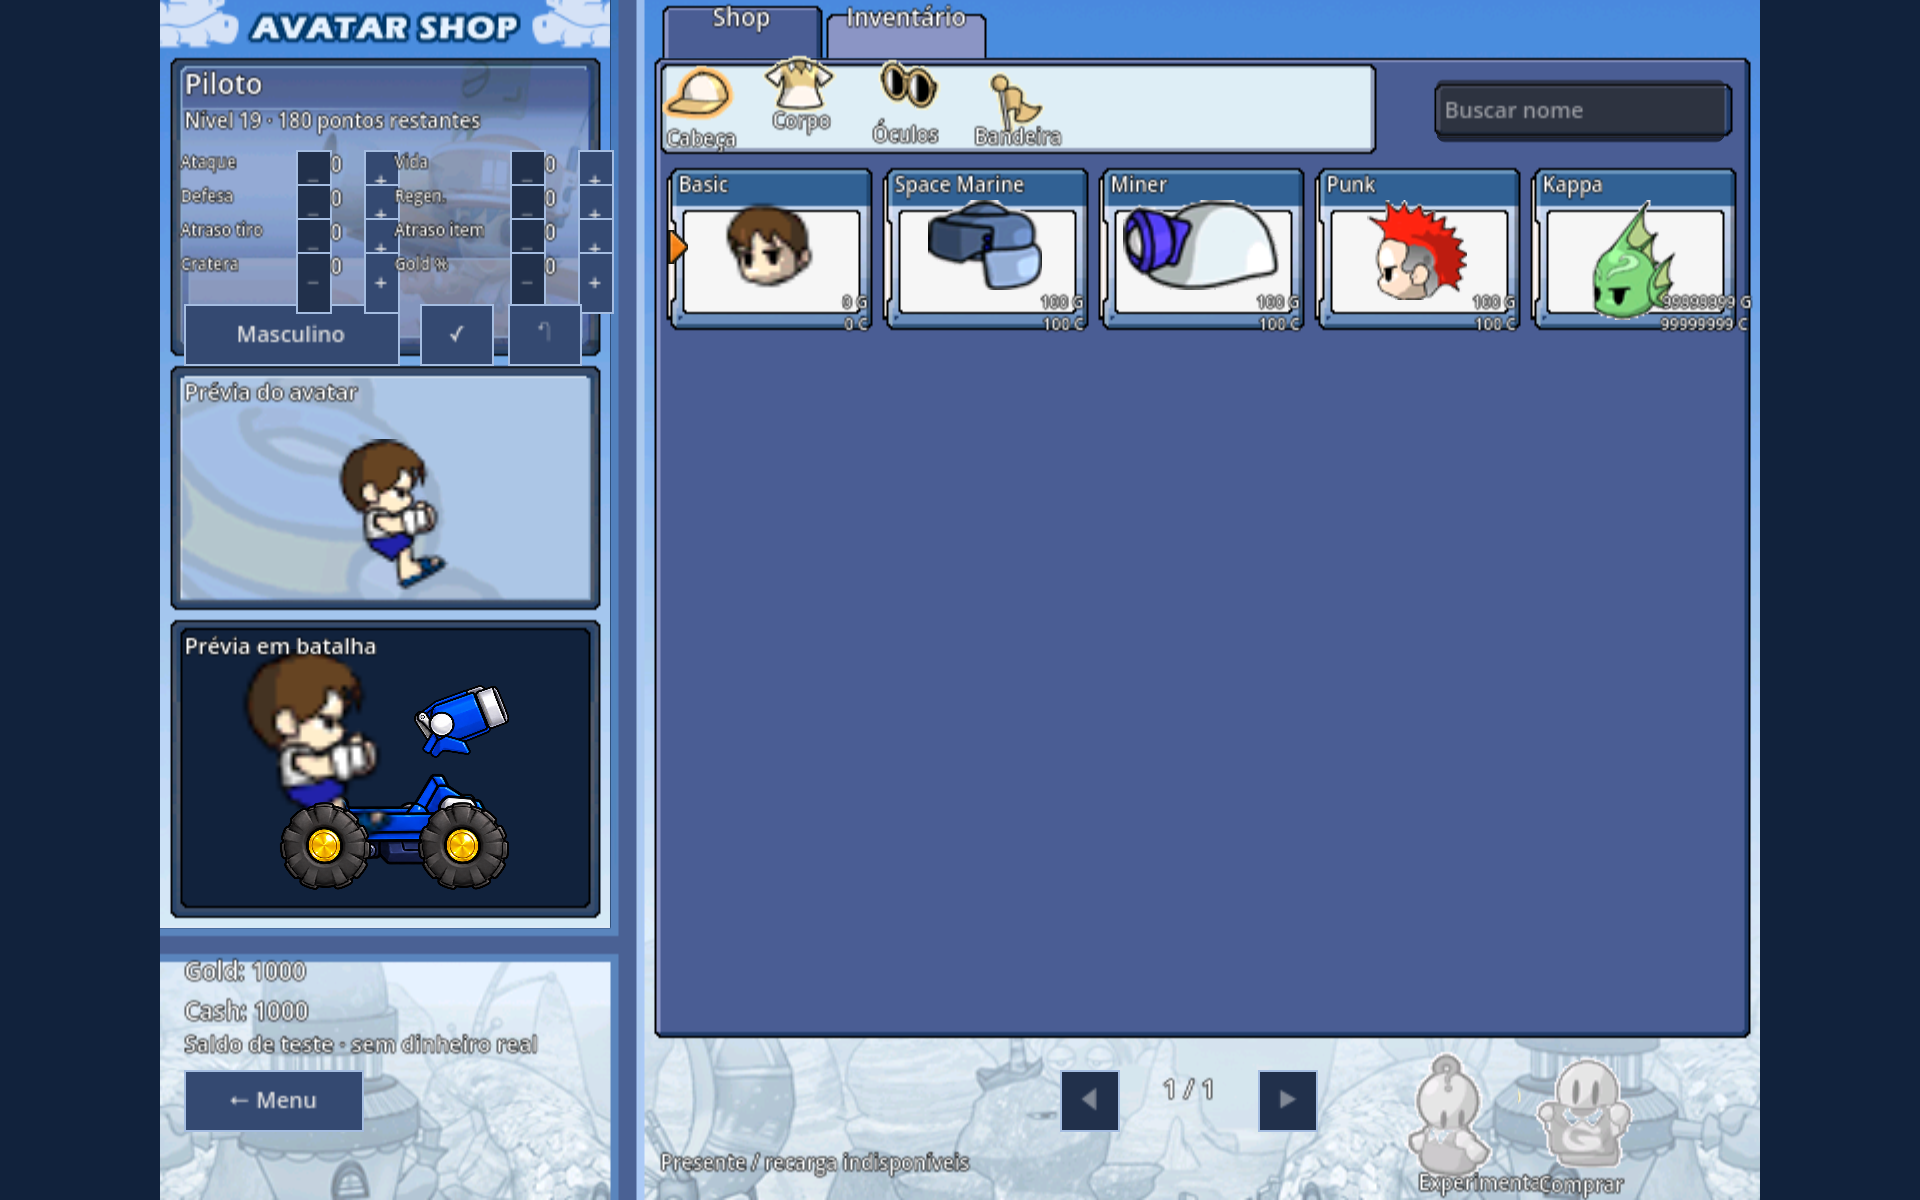
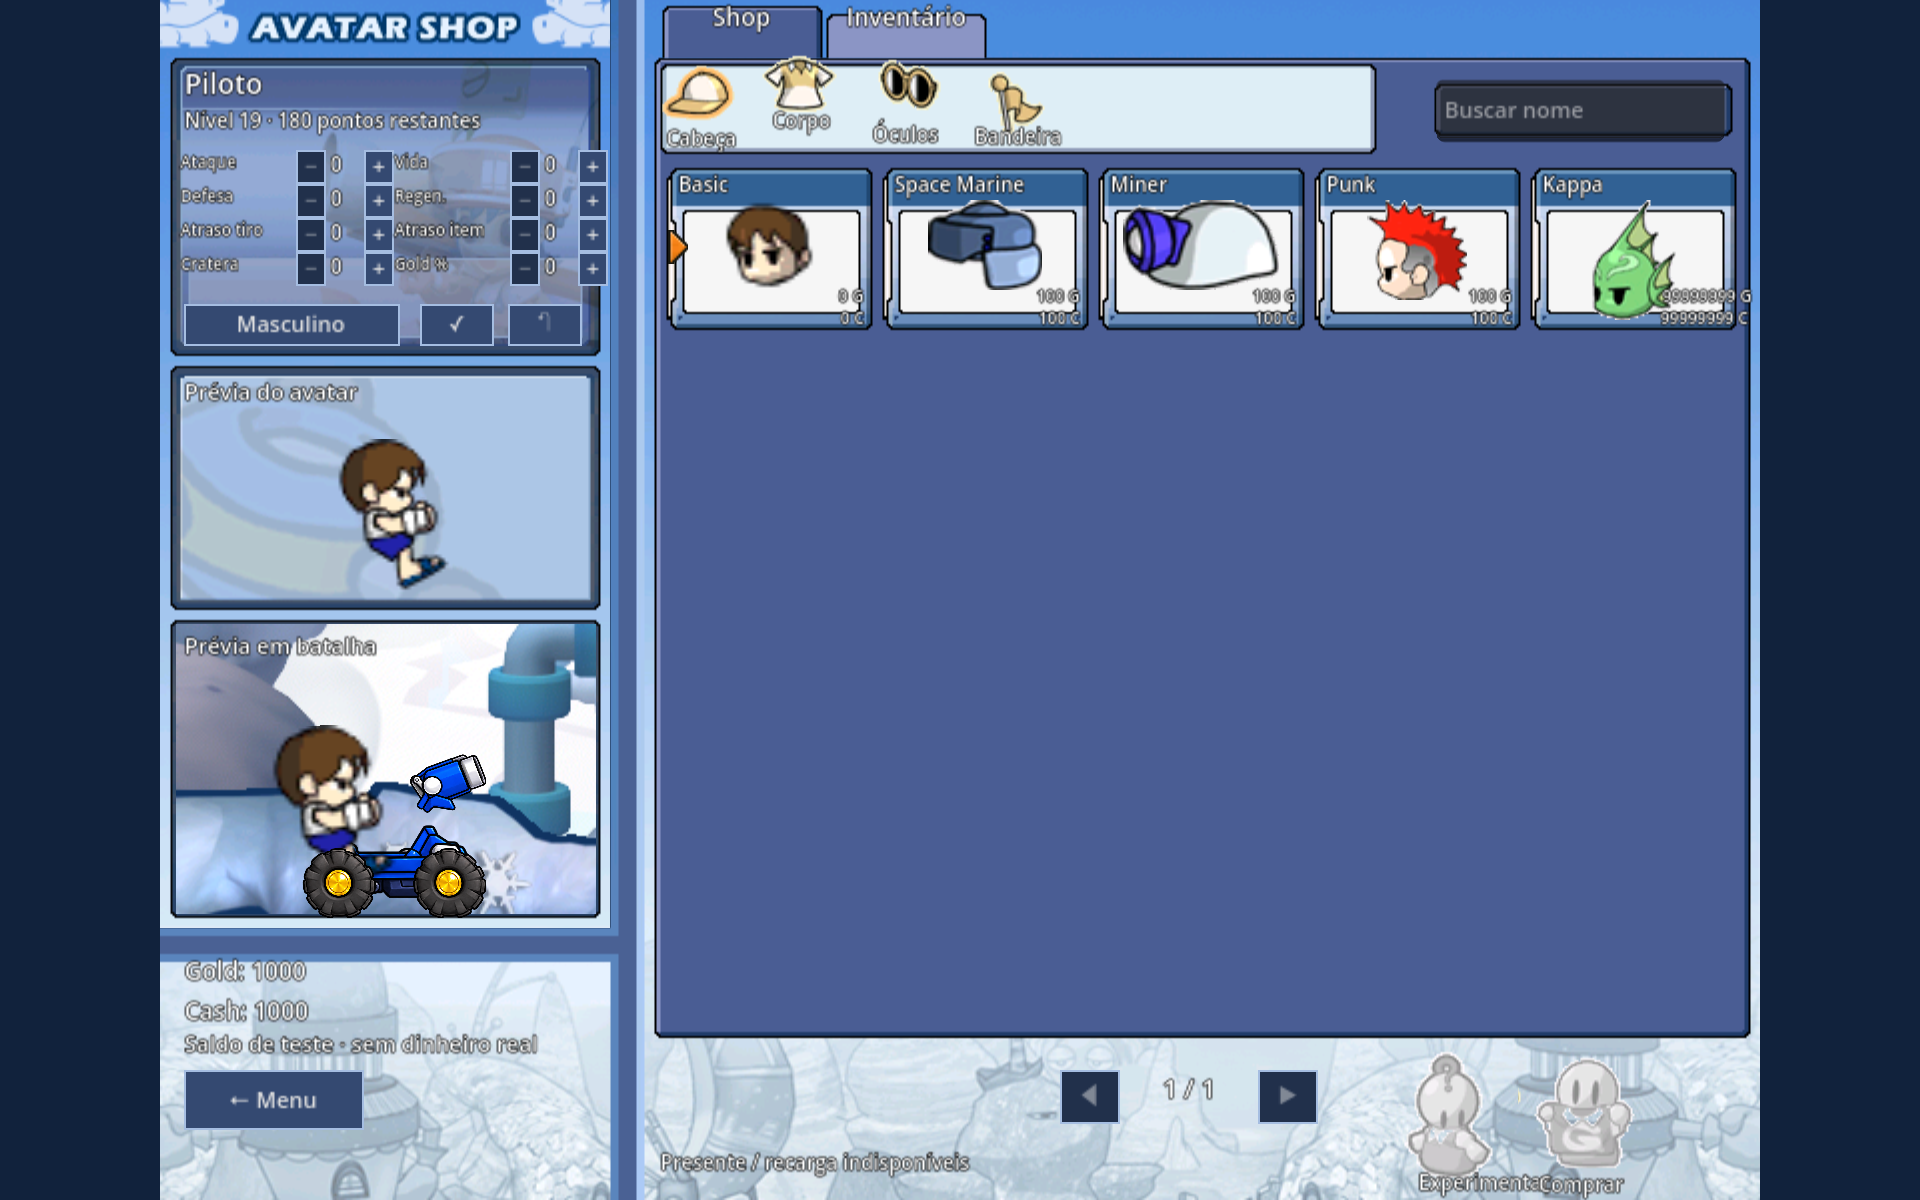
fix: validate Shop corruption Gold geometry and exported preview with final handoff

diff --git a/docs/sdd/HANDOFF.md b/docs/sdd/HANDOFF.md
@@ -1,17 +1,49 @@
-# Hand-off — Gunbound Recomp 0.12.0
+# Hand-off — Gunbound Recomp 0.14.0
 
-## Shop de avatar — preparação, sem código novo
+## Shop de avatar 0.14.0 — entregue no worktree
 
-2026-10-12: worktree da main em codex/avatar-shop. Proposta AVATAR_SHOP.md
-(REQ-38..41); usuário confirmou saldo inicial Gold/Cash de teste e distribuição
-de oito atributos com efeitos. Catálogo C# auditado: 15 registros nas quatro
-categorias, atlas/retratos disponíveis. Importação e baseline completo: 1114
-checks + 10 partidas, zero falhas (~41 s nas partidas). Sem Shop implementado,
-sem imagens geradas, sem export. Alterações não commitadas de itens da pasta
-principal não foram copiadas. ItemDelay depende dessa integração. Usuário
-aprovou a especificação, saldo 1.000 por moeda e orçamento pelo nível local em
-2026-10-12. AVATAR_SHOP_PLAN.md preparado; próximo passo: revisão do plano e
-escolha de execução. Nenhum código de produto alterado.
+Branch `codex/avatar-shop`, criada da `main`. Pedido/decisões aprovados em
+AVATAR_SHOP.md; execução AVATAR_SHOP_PLAN.md. REQ-38..41, ADR-059.
+
+- Catálogo original15 registros: cabeça/corpo/óculos/bandeira,15 retratos e
+ 13atlas.80arquivos originais/interface copiados com SHA, sem edição dos PNGs.
+- Shop/Inventário, busca, páginas25, gêneros/unissex, experimentação temporária,
+ compra Gold/Cash e popup modal. Primeiro perfil Shop tem1000por moeda;
+ transações com rollback, repetição sem débito e corrupção sem refill.
+- Perfil version2 conserva nickname/XP/wins/matches/awarded e guarda posse,
+ equipamento separado por gênero e oito atributos. Pontos pelo nível local:
+ min((nível−1)×10,180), até50cada; rascunho/confirmar/cancelar.
+- AvatarArt junta peças com pivôs/FPS/grade originais, substituindo o piloto no
+ assento do rig no menu/previews/arena; CPU básica. Caminho legado preservado
+ sem contexto. Atlas multi-row e altura feminina27vs metadata33 tratados.
+- Vida/dano/defesa/regen/atraso/Dig aplicados no Match/voo/previsão em cópias;
+ GoldRewards e Popularity seguem caminhos1×1 C#. Ângulo HUD=trajetória central
+ +180, sem dispersão do primeiro pellet; metadados Gold só de dano positivo.
+ Resultado4/1Gold e Popularity acumulada/branch2000 inalcançável são da fonte;
+ empate0é adaptação. XP local preservado; crédito final único com ID da partida.
+
+Validação final: check.sh completo **1282checks+10partidas, zero falhas**,40,5s
+nas partidas. Mais8 checks de atributos (fixture válida de180pontos, dano/cratera
+reais) passaram; check.sh --quick consolidou **1290checks, zero falhas**.
+Revisão independente encontrou3Important reproduzidos e corrigidos em RED→GREEN:
+shop inválido renovando saldo, ângulo Gold espelhado e pellets sem dano alterando
+bônus. Um quarto candidato sobre remap do .gd não se reproduziu neste Godot:
+PCK original já tinha preview1786pixels; gate redundante removido por robustez.
+
+Sete capturas GPU1920×1200 em docs/avatar-shop: loja, compra, inventário,
+atributos, Mage/Bigfoot e poses/sentidos/encosta. PCK do app exportado carregou
+catálogo15 e renderizou preview (1786pixels da figura, PASS), com perfil isolado.
+`capture_avatar_pck_smoke.gd` preserva reprodução: copiar o script para fora do
+projeto (ex.: /tmp) e executar Godot --main-pack <PCK> --script <script>.
+App/ZIP0.14.0 em builds do worktree, ZIP98MB; assinatura ad-hoc estrita válida.
+Nenhum teste usou o perfil real. Main e fonte C# não foram editadas nesta execução.
+
+Limites: **ItemDelay tem fórmula/teste, sem uso real até integrar código de itens**
+(a main tinha alterações não commitadas e não foram copiadas). Assets são
+originais; GPT Images opcional não gerado. Fonte/interface têm adaptações de
+viewport e controles nativos de texto. Sem teste manual do app por usuário;
+roteiro em docs/VALIDACAO.md. Próximo passo: usuário validar o app e decidir a
+integração da branch; worktree permanece disponível.
 
 ## Reorganização SOLID (mesma versão, sem export)
 

diff --git a/docs/sdd/TASKS.md b/docs/sdd/TASKS.md
@@ -1,16 +1,18 @@
 # Entregas e próximos trabalhos
 
-## Shop de avatar — preparação no worktree
+## Shop de avatar 0.14.0 (ADR-059, REQ-38..41)
 
-- [x] Worktree da main, branch codex/avatar-shop; alterações locais de itens preservadas na pasta principal.
-- [x] Auditoria do Shop/rider/catálogo/transações/atributos C#; 15 registros nas quatro categorias com assets presentes.
-- [x] Usuário confirmou saldo Gold/Cash de teste e os oito atributos com efeitos.
-- [x] Importação e baseline: 1114 checks + 10 partidas, zero falhas.
-- [x] Usuário aprovou AVATAR_SHOP.md, saldo 1.000 por moeda e orçamento pelo nível local.
-- [x] Preparar AVATAR_SHOP_PLAN.md com contratos, testes e etapas.
-- [ ] Revisar plano/escolher execução; implementar catálogo/perfil, loja, rider e atributos/recompensas.
-- [ ] Integrar ItemDelay ao trabalho de itens quando estiver disponível em branch.
-- [ ] Validar modelos/cena/partidas e capturas GPU; registrar limites e eventual export.
+- [x] Worktree de main, branch codex/avatar-shop, especificação/plano aprovados.
+- [x] Catálogo15 e assets originais; migração perfil2 e compras/equipamento atômicos.
+- [x] Shop/Inventário, filtros/busca/páginas, experimentar e confirmação Gold/Cash.
+- [x] Composição de quatro peças nos previews/menu/arena, dois mobiles e sentidos.
+- [x] Oito atributos e distribuição; modificadores Match/CPU/previsão e Gold.
+- [x] Revisão independente e correções reproduzidas em RED→GREEN.
+- [x] Check completo1282+10partidas; quick final1290, zero falhas;7capturasGPU.
+- [x] App/ZIP0.14.0 exportados no worktree; PCKpreview/catálogo e assinatura válidos.
+- [ ] Integrar ItemDelay ao uso real quando código de itens estiver na branch.
+- [ ] Usuário validar aplicativo; decidir integração da branch posteriormente.
+- [ ] GPT Images permanece opção permitida; não solicitado como etapa obrigatória.
 
 ## Reorganização SOLID (ADR-057)
 

diff --git a/docs/sdd/DESIGN.md b/docs/sdd/DESIGN.md
@@ -307,3 +307,28 @@ balão do relógio da CPU e contador de dano acumulado. Texturas HD 3× em
 Options e SkipTurn são `TextureButton` com as regiões de `Button.cs`. `game.gd`
 cuida do input original (carga 0→100 a +2/0,04 s, Tab, F8, ↑/↓ com repetição
 acelerada) e entrega um `hud_state()`; `match.gd` não mudou.
+
+## Shop de avatar 0.14 (REQ-38..41)
+
+Catalog e ShopModel separam dados, filtros e preview da tela original800×600
+(render uniforme4/3, margens laterais na viewport1280×800). Profile version2
+guarda moedas, posse por chave composta, conjuntos por gênero e atributos;
+compras/equipamento/confirmar/resultado usam snapshot, rename e rollback.
+A seção shop inválida não renova o saldo de teste.
+
+AvatarArt desenha os atlas originais com pivôs e10FPS, conservando grade real
+e profundidade Flag→Head→Goggles→Body. MobileRig troca o piloto no mesmo
+assento; sem contexto conserva o caminho anterior. BattleArt recebe contexto
+de equipamento da partida; não lê o perfil.
+
+PlayerAttributes guarda orçamento/modificadores puros; Match injeta atributos
+em atores antes do primeiro turno. Damage aplica ataque−defesa somente no
+projétil primário; Dig só aumenta erosão; delays/regen/HUD compartilham regras.
+FlightSnapshot copia atores/atributos/Gold em profundidade; simulação não toca
+perfil, moeda real ou estado vivo.
+
+GoldRewards reproduz os caminhos1×1 C#, com ângulo HUD=trajetória central+180.
+Só impactos com dano positivo entram nos metadados de Gold; boomer/backward
+consideram alvo inimigo. FinishGoldShot agrega salvo uma vez após acomodação;
+Profile.award recebe Gold junto do XP, usando awarded para impedir repetição.
+ItemDelay é contrato puro até integração da funcionalidade de itens.

diff --git a/docs/sdd/AVATAR_SHOP.md b/docs/sdd/AVATAR_SHOP.md
@@ -1,6 +1,6 @@
 # Shop de avatar — especificação aprovada
 
-Data: 2026-10-12. Estado: **especificação aprovada pelo usuário; código não implementado**.
+Data: 2026-10-12. Estado: **implementado e validado no worktree (0.14.0); ItemDelay depende dos itens**.
 Branch: `codex/avatar-shop`, worktree criado do commit de `main` disponível
 no início desta sessão. Alterações não commitadas da pasta principal não foram
 copiadas. A especificação de itens 0.13 já está no baseline; o código de itens
@@ -200,9 +200,13 @@ só pode ser declarado validado após a integração do código de itens em bran
 10. Caso seja entregue app, reexportar com build_macos.py e verificar assinatura;
     não confundir execução do projeto com app atualizado. Nenhum push/publicação.
 
-## Estado observado nesta preparação
+## Resultado observado
 
-Worktree importado no Godot e baseline completo executado: **1114 checks +
-10 partidas, zero falhas** (partidas em ~41 s). Ainda não existem Shop nem
-modificadores implementados. Usuário aprovou a especificação, saldo e orçamento
-em 2026-10-12. Plano em AVATAR_SHOP_PLAN.md, aguardando revisão para execução.
+Baseline1114checks+10partidas antes do código. Entrega0.14: suite completa
+1282checks+10partidas e quick final1290checks após8checks adicionais de atributos,
+zero falhas. Sete capturas GPU; PCK com15itens e preview validado; app/ZIP
+reexportados e assinatura verificada. Revisão independente e testes de regressão
+corrigiram corrupção de Shop, ângulo de Gold e metadados de pellets sem dano.
+
+ItemDelay é fórmula/teste até integração dos itens. Arte original, sem GPT novo.
+Sem teste manual pelo usuário; detalhes e retomada em HANDOFF.md.

diff --git a/docs/VALIDACAO.md b/docs/VALIDACAO.md
@@ -126,3 +126,24 @@ que a CPU recebe o outro. Vire os dois: piloto deve apresentar uma perna e um
 pé, sem perna distante atravessando o mobile. Confira encosta, carga, recuo,
 dano/morte e pausa. Proporção/assento permanecem0.6.3; tiros0.6.2 preservados.
 825checks e10partidas passaram; inspeção GPU não substitui aceitação visual.
+
+## Shop e atributos 0.14.0
+
+1. Abrir Shop no menu: confirmar 1.000 Gold/Cash na primeira abertura; sair e
+   abrir novamente sem renovação. Buscar nome, trocar categoria e gênero.
+2. Selecionar Space Marine e Experimentar: preview muda, equipamento não.
+   Abrir Comprar, Cancelar/ESC sem débito; comprar por Gold e outra peça por
+   Cash. Repetir clique não pode duplicar compra. Kappa permanece sem saldo.
+3. Inventário: equipar cabeça/corpo/óculos/bandeira; ID0 retira acessórios.
+   Trocar gênero e voltar deve conservar compras e conjuntos. Reiniciar app
+   deve preservar XP/partidas/saldos/equipamento.
+4. Nível1: zero pontos; após XP subir, usar +/−, cancelar, confirmar e sair com
+   rascunho. Valores não confirmados não entram no treino.
+5. Com cada mobile, observar equipamento nos dois sentidos, encostas, movimento,
+   carga/recuo/dano e pausa. Vida/dano/cratera/regen/atraso devem refletir pontos;
+   o escudo base Mage continua220. Popularity afeta Gold, não XP/Cash.
+6. Validar no app exportado (projeto aberto no editor não atualiza app).
+   ItemDelay não terá uso real até os itens serem integrados neste worktree.
+
+Testes automatizados usam perfis isolados. Capturas GPU e smoke do PCK não
+substituem este teste manual de experiência e áudio pelo usuário.

diff --git a/docs/sdd/DECISIONS.md b/docs/sdd/DECISIONS.md
@@ -315,3 +315,18 @@ no fluxo C# apesar das constantes Gold10/5; Popularity multiplica o acumulado
 após cada tiro; branch2000 repete condição1000 e é inalcançável. O plano
 reproduz os caminhos executados, documentando essas peculiaridades. Empate
 mantém XP local e propõe Gold de resultado0 no fluxo existente do protótipo.
+
+ADR-059 — implementada no worktree como0.14.0. Os PNGs originais e identidade
+composta foram preservados; currículo de pontos usa nível local, sem ranking.
+O renderer usa grade real dos atlas e limita recorte feminino à altura27px,
+conservando pivô declarado. Transações de perfil2 incluem rollback; seção
+Shop inválida não é tratada como ausência de perfil legado.
+
+Auditoria final confirmou ângulo Gold central+180 pela diferença de convenções
+entre Crosshair/Projectile C#. Duração/clima/boomer só agregam impactos com dano;
+boomer/backward apenas entradas inimigas. Candidato de falha no export .gd não
+se reproduziu no Godot4.7.2 (smoke PCK passou antes da alteração); removido gate
+redundante por robustez. Três achados Important reais reproduzidos/corrigidos.
+ItemDelay é limite assumido pela especificação aprovada, sem importar código
+não commitado de outra tarefa. Branch/worktree mantidos; aplicativo0.14.0
+exportado para validação local, sem integrar main nem publicar.

diff --git a/docs/APRENDIZADO.md b/docs/APRENDIZADO.md
@@ -100,3 +100,20 @@ mobile_rig.gd articula peças constantes e piloto inteiro em perfil. A perna
 invisível é ocultada no próprio PNG, pois trocar a ordem de uma imagem inteira
 não muda a sobreposição dentro dela. O catálogo conserva o espaço transparente
 para manter mãos e assento na posição aprovada. Física não usa essas imagens.
+
+## Loja local, composição e atributos
+
+O catálogo preserva a chave gênero/categoria/ID: Basic0 masculino e feminino
+não são o mesmo item. A interface seleciona uma chave; o perfil resolve preço
+e valida saldo/propriedade, grava débito e posse juntos e restaura a cópia
+anterior se falhar. Experimentação vive no modelo da loja, não no perfil.
+
+O rider junta quatro camadas usando pivôs da fonte. Atlas têm grades diferentes;
+o quadro é convertido em coluna/linha, sem recentrar o recorte a cada frame.
+O rig do mobile aplica transformação conjunta e não modifica colisão.
+
+A partida copia atributos; dano e Dig são aplicados no laço comum ao tiro e à
+previsão. AttackDelay converte o inteiro original antes de dividir por7,5.
+Gold/Popularity ficam no modelo, e a concessão final usa o mesmo ID idempotente
+de XP. O fluxo C# multiplica Gold acumulado por tiro, usa4/1 Gold no resultado
+e tem a condição2000 inalcançável: peculiaridades preservadas e testadas.

diff --git a/README.md b/README.md
@@ -168,3 +168,19 @@ O projeto passa a se chamar **Gunbound Recomp**: nome do projeto, menu,
 recomeça em `app_userdata/Gunbound Recomp/` — o perfil antigo não foi migrado
 nem apagado. `scripts/check.sh` consolidou o harness de testes. Regras, roster,
 arte e áudio são os mesmos de0.6.4.
+
+## Shop de avatar 0.14.0
+
+No menu, abra **Shop de avatar**. Cabeça, corpo, óculos e bandeira usam o
+catálogo e os preços do OpenBound. Experimente sem equipar; compre com Gold ou
+Cash; na aba Inventário, clique para equipar. Masculino/feminino mantêm seus
+conjuntos, com acessórios unissex compartilhados.
+
+O perfil recebe uma única vez 1.000 de cada moeda para teste. Os oito atributos
+liberam 10 pontos por avanço do nível local (teto 180, máximo 50 por atributo);
+confirme para aplicar na próxima partida. O combate e a CPU usam os mesmos
+modificadores. Gold da partida e bônus de Popularity seguem o fluxo C#; XP
+continua separado. ItemDelay tem fórmula, mas depende da integração dos itens.
+
+[Especificação](docs/sdd/AVATAR_SHOP.md), [capturas](docs/avatar-shop/inventory.png).
+Arte dos avatares/interface original; nenhum derivado GPT novo foi gerado.

diff --git a/AGENTS.md b/AGENTS.md
@@ -189,3 +189,17 @@ ADR-057. `match.gd` decide turno, dano e resultado. Catálogo em `mobiles.gd`
 `battle_art` não lê campos da cena: recebe o contexto de `actor_context`.
 Treino segue 1×1; não adicionar rede neste corte.
 
+
+## Shop de avatar 0.14 — caminho atual
+
+Ler AVATAR_SHOP.md e AVATAR_SHOP_PLAN.md. Quatro slots, catálogo original
+15registros, perfil version2 com saldo inicial1000Gold/Cash uma vez, conjuntos
+por gênero e unissex compartilhado. ShopModel mantém preview temporário;
+Profile valida/transaciona com rollback. PlayerAttributes:10por avanço do nível
+local,180total,50por atributo. Atores copiam atributos/equipamento no start;
+CPU/previsão usam mesmas regras. AvatarArt substitui piloto no rig quando
+recebe contexto; legado preservado sem contexto. GoldRewards segue fluxo C#
+4/1resultado, Popularity cumulativa; XP separado. ItemDelay fórmula apenas
+até integrar código de itens. Assets originais, sem novo HD. Suites
+test_avatar_catalog/profile/shop/art, test_attributes e test_gold_rewards;
+capture_avatar_shop gera capturas GPU e smoke separado confere PCK exportado.

diff --git a/docs/sdd/AVATAR_SHOP_PLAN.md b/docs/sdd/AVATAR_SHOP_PLAN.md
@@ -313,3 +313,14 @@ REQ38→1/2/4; REQ39→1/5/7; REQ40→2/4; REQ41→3/6/7; persistência REQ10→
 thread REQ32→3/6; dependência REQ35→3/7. Interfaces consistentes; casos de
 Review Focus associados a testes nas tarefas indicadas. Estado: plano escrito,
 sem execução de código novo; baseline previamente validado1114checks+10partidas.
+
+## Execução concluída no worktree
+
+Execução nativa aprovada; tarefas1–7 realizadas com testes RED→GREEN,
+revisão independente e correções. Interfaces concretas estão no código; detalhes
+observados e desvios registrados em HANDOFF/DECISIONS. Suite completa1282 e10
+partidas; quick1290 após8checks adicionais;7capturasGPU e PCK/App0.14 verificados.
+Dependência ItemDelay permanece explicitamente fora do uso real. Sem HD novo.
+App/ZIP ficam em builds do worktree para validação; branch mantida para posterior
+integração. Planos/fixtures são referência, não alegação de código já presente
+na fase de aprovação histórica.

diff --git a/assets/openbound/ATTRIBUTION.md b/assets/openbound/ATTRIBUTION.md
@@ -94,3 +94,12 @@ Layout, estados de botão, carga e mira portados de `HUD.cs`, `Crosshair.cs`,
 `SpriteNumericField.cs`, `Button.cs`, `ShotButton.cs` e `Mobile.cs` (GPL).
 Arquivos copiados sem edição; SHA-256 em `SOURCE_MANIFEST.json`. Derivados HD
 GPT Images em `assets/hd/hud/`.
+
+## Shop e avatar
+
+Os sprites do Shop, 13 atlas de avatar e15 retratos vieram de
+OpenBound-Assets/Game Assets, nas quatro categorias Hat/Body/Goggles/Flag.
+Catálogo normalizado conserva preços/IDs/pivôs da DatabaseSeed original.
+assets/openbound/avatars/manifest.json lista os caminhos fonte e SHA-256 dos
+80 arquivos copiados, com pixels intactos. Não são derivados GPT Images.
+Regras portadas do código OpenBound GPL-3.0-or-later, Copyright2020 Carlos H.M.S.

diff --git a/docs/sdd/SPEC.md b/docs/sdd/SPEC.md
@@ -209,5 +209,6 @@ Pedido de 2026-10-12: REQ-38 Shop/compra local em Gold/Cash; REQ-39 composição
 de cabeça/corpo/óculos/bandeira; REQ-40 distribuição dos oito atributos; REQ-41
 modificadores no combate/previsão e Gold. Saldo inicial de teste e atributos
 confirmados pelo usuário. Detalhes e adaptações aprovados em AVATAR_SHOP.md.
-Não implementado; plano AVATAR_SHOP_PLAN.md em revisão. Relacionados REQ-02/04–10/12/19/20,
+Implementado no worktree; plano AVATAR_SHOP_PLAN.md e evidências HANDOFF.md.
+ItemDelay aguarda integração dos itens; demais modificadores ativos. Relacionados REQ-02/04–10/12/19/20,
 REQ-32 (thread) e REQ-35 (dependência ItemDelay).
